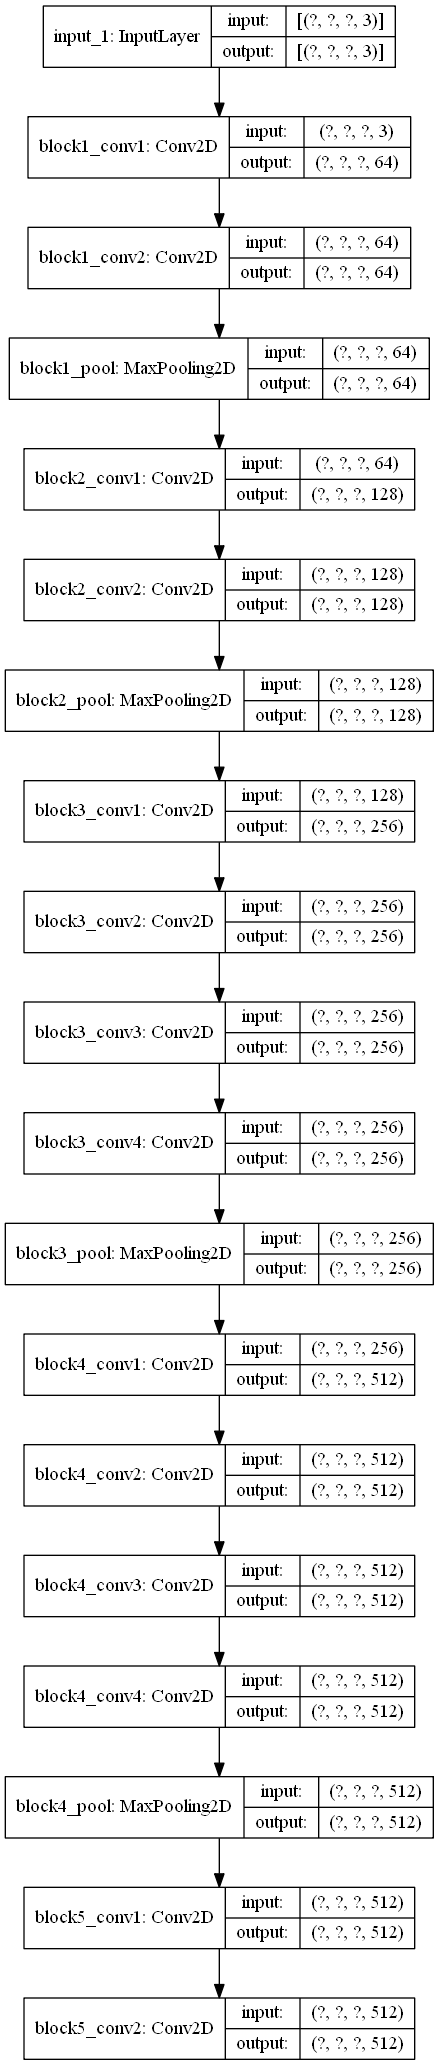
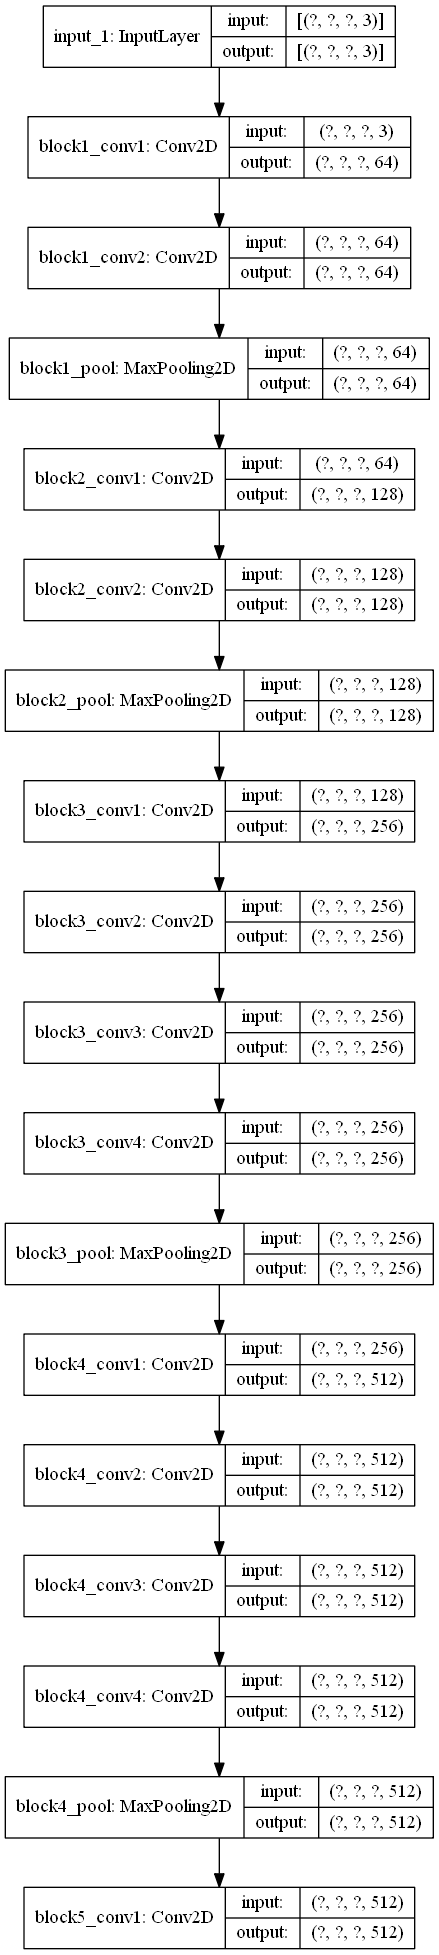
clean OK

Changed region(s): [[0.0, 0.0, 1.0, 0.9985], [0.0296, 0.7176, 0.0592, 0.7488], [0.0296, 0.2496, 0.0592, 0.2808]]

diff --git a/v1/functions.py b/v1/functions.py
@@ -1,20 +1,24 @@
 #
 # Copyright Yans Khoja
 #
-from PIL import Image
-# https://ascendances.wordpress.com/2016/08/03/redimensionner-des-images-avec-python-resize-image/
-import numpy as np
+#  Bibliothèque d'apprentissage profond & manipulation de tenseur
 import tensorflow as tf
-from tensorflow.keras import *
 import keras
 from keras import *
 from keras.applications.vgg19 import VGG19
 from keras.models import Model
 from keras.optimizers import SGD
-from functions import *
-import sys
+
+#  Bibliothèque classique
+import numpy as np
 from matplotlib import pyplot as plt
-from tensorflow.python.keras.preprocessing import image as kp_image
+
+# Receuil de fonctions utilisés dans le programme principale
+from functions import *
+
+#  Bibliothèque système
+import time
+import sys
 
 # Méthode générant une image en bruit de blanc
 def generative(chemin, saved, shown):
@@ -71,7 +75,7 @@ def load_img(path_to_img, new_shape):
   return img
 
 # Méthode permettant de créer le model convolutif basé sur un VGG19 et entrainé sur la base imagenet
-# avec en sortie les features maps définis en argument de la méthode
+# avec en sortie les features maps définis en argument de la méthode et nous empêcherons l'entraînement des paramètres.
 def create_model(style_layers, content_layers):
     vgg = tf.keras.applications.VGG19(include_top=False, weights='imagenet')
     vgg.trainable = False
@@ -79,39 +83,33 @@ def create_model(style_layers, content_layers):
     content_outputs = [vgg.get_layer(name).output for name in content_layers]
     outputs = style_outputs + content_outputs
     model = tf.keras.Model([vgg.input],outputs)
+    model.summary()
     tf.keras.utils.plot_model(model,"model_created.png", show_shapes=True)
     return model
 
-# Méthode permettant de récupèrer les features représentations du modèle pour l'image 
+# Méthode permettant de récupérer les features représentations du modèle pour l'image 
 def get_feature_representations(model, image, nbr_layers):
     # calculer les features de l'image
     content_outputs = model(image)
-    # Récuperer les feature representations content et style à partir de notre modèle à partir nos layers intermédiaires spécifiques
+    # Récupérer les feature representations content et style à partir de notre modèle à partir nos layers intermédiaires spécifiques
         # style_features -> Nous voulons récupérer les features representation des layers 
         # 'block1_conv1','block2_conv1','block3_conv1','block4_conv1','block5_conv1' pour 
         # l'image style
         # style_features -> Nous voulons récupérer les features representation des layers 
-        # 'block5_conv2' pour l'image content
+        # 'block4_conv2' pour l'image content
     style_features = [style_layer[0] for style_layer in content_outputs[:nbr_layers]]
     content_features = [content_layer[0] for content_layer in content_outputs[nbr_layers:]]
     return style_features, content_features
 
-# Méthode calculant la matrix de gram
+# Méthode calculant la matrice de gram
 def gram_matrix(input_tensor):
-    # print(tf.shape(input_tensor))
-    # gram = tf.linalg.einsum('.ik,.kj->lij', input_tensor, input_tensor)
-    # input_shape = tf.shape(input_tensor)
-    # num_locations = tf.cast(input_shape[1]*input_shape[2], tf.float32)
-    # return gram/(num_locations)
-
-    # Make the image channels
     channels = int(input_tensor.shape[-1])
     a = tf.reshape(input_tensor, [-1, channels])
     n = tf.shape(a)[0]
     gram = tf.matmul(a, a, transpose_a=True)
     return gram / tf.cast(n, tf.float32)
 
-#  Méthode permettant de récupèrer les features representations final de l'image
+#  Méthode permettant de récupérer les features representations final de l'image
 def get_outputs(style_layers, content_layers, custom_model, image, num_layers):
 
     num_content_layers , num_style_layers = num_layers
@@ -121,7 +119,7 @@ def get_outputs(style_layers, content_layers, custom_model, image, num_layers):
                                      image,
                                      num_style_layers)
 
-    # Convertion liste en tenseur
+    # Conversion liste en tenseur
     style_features = \
         [tf.convert_to_tensor(style_feature) for style_feature in style_features]
     content_features = \
@@ -131,7 +129,7 @@ def get_outputs(style_layers, content_layers, custom_model, image, num_layers):
     gram_style_features = \
         [gram_matrix(style_feature) for style_feature in style_features]
 
-    # Stokage dans un unique dictionnaire
+    # Stockage dans un unique dictionnaire
     content_dict = {content_name:value
                     for content_name, value
                     in zip(content_layers, content_features)}
@@ -144,10 +142,10 @@ def get_outputs(style_layers, content_layers, custom_model, image, num_layers):
 
     return outputs
 
-
+# Calculer la perte totale
 def style_content_loss(outputs,target,loss_weights, num_layers):
 
-    # Recuperer les  outputs de l'image d'initialisation
+    # Récupérer les  outputs de l'image d'initialisation
     style_outputs = dict(outputs['style'].items())
     content_outputs = dict(outputs['content'].items())
 
@@ -161,7 +159,6 @@ def style_content_loss(outputs,target,loss_weights, num_layers):
     style_weight, content_weight = loss_weights
     num_style_layers, num_content_layers = num_layers
 
-    # todo : Simplify this single instruction to multiple intruction (too long, possible error root cause)
     style_loss = 0
     for name in style_outputs.keys():
         sqrt = tf.square(style_outputs[name]-style_targets_outputs[name])
@@ -173,7 +170,6 @@ def style_content_loss(outputs,target,loss_weights, num_layers):
     
     style_loss *= style_weight / float(num_style_layers)
 
-    # todo : Simplify too
     content_loss = 0
     for name in content_outputs.keys():
         sqrt = tf.square(content_outputs[name]-content_targets_outputs[name])
@@ -192,10 +188,9 @@ def clip_0_1(image):
   return tf.clip_by_value(image, clip_value_min=0.0, clip_value_max=1.0)
 
 # Calculer les gradients par rapport à l'image d'entrée
-# @tf.function()
 def train( opt, image_init, style_layers,
                 content_layers, custom_model,
-                num_layers,target,loss_weights, total_variation_weight):
+                num_layers,target,loss_weights, total_variation_weight = 0):
 
    with tf.GradientTape() as tape:
        outputs = get_outputs( style_layers,
@@ -210,7 +205,6 @@ def train( opt, image_init, style_layers,
 
    opt.apply_gradients([(grad, image_init)])
    image_init.assign(clip_0_1(image_init))
-   # image_init.assign(tf.clip_by_value(image_init, min_vals, max_vals))
 
    return image_init
 

diff --git a/v1/main.py b/v1/main.py
@@ -1,27 +1,59 @@
 #
 # Copyright Yans Khoja
 #
-import numpy as np
-from matplotlib import pyplot as plt
+
+#  Bibliothèque d'apprentissage profond & manipulation de tenseur
 import tensorflow as tf
 import keras
 from keras import *
 from keras.applications.vgg19 import VGG19
 from keras.models import Model
 from keras.optimizers import SGD
+
+#  Bibliothèque classique
+import numpy as np
+from matplotlib import pyplot as plt
+
+# Recueil de fonctions utilisés dans le programme principale
 from functions import *
+
+#  Bibliothèque système
 import time
+import sys
 
 # Config GPU
 config = tf.compat.v1.ConfigProto()
 config.gpu_options.allow_growth=True
 sess =  tf.compat.v1.Session(config=config)
 
-# Activation de l'executing eagerly
-tf.executing_eagerly()
+# Chargement des images
+content_image = tf.keras.preprocessing.image.load_img('.\..\data\Labrador.jpg', color_mode='rgb')
+style_image = tf.keras.preprocessing.image.load_img('.\..\data\Kandinsky.jpg', color_mode='rgb')
+
+# Récupérer la taille des images d'origine
+size_originale_content = np.size(content_image,0) , np.size(content_image,1) 
+size_originale_style = np.size(style_image,0) , np.size(style_image,1) 
+
+# Convertir les images doivent être contenu dans un array (1,224,224,3)
+content_image = np.reshape(content_image,
+                            (1,np.size(content_image,0),
+                                np.size(content_image,1),
+                                np.size(content_image,2)))
+style_image = np.reshape(style_image,
+                          (1, np.size(style_image,0),
+                              np.size(style_image,1),
+                              np.size(style_image,2)))
+
+# Re-tailler les images
+content_image = tf.image.resize(content_image, [224,224], method='nearest')
+style_image = tf.image.resize(style_image, [224,224], method='nearest')
+
+# Conversion en float 32
+content_image = tf.image.convert_image_dtype(content_image, tf.float32)
+style_image = tf.image.convert_image_dtype(style_image, tf.float32)
 
 # Listes des "feature maps" à récupérer pour l'image content
-content_layers = ['block5_conv2']
+content_layers = ['block4_conv2']
 
 # Listes des "feature maps" à récupérer pour l'image content
 style_layers = ['block1_conv1',
@@ -36,37 +68,7 @@ num_content_layers = len(content_layers)
 num_style_layers = len(style_layers)
 num_layers = (num_content_layers,num_style_layers)
 
-# Chargement des images
-content_image = tf.keras.preprocessing.image.load_img('.\..\data\Labrador.jpg', grayscale=False, color_mode='rgb', target_size=None,
-    interpolation='nearest')
-style_image = tf.keras.preprocessing.image.load_img('.\..\data\Kandinsky.jpg', grayscale=False, color_mode='rgb', target_size=None,
-    interpolation='nearest')
-
-size_originale_content = np.size(content_image,0) , np.size(content_image,1) 
-size_originale_style = np.size(style_image,0) , np.size(style_image,1) 
-
-# Convertir les images doivent etre contenu dans un array (1,224,224,3) et en float 32
-content_image = np.reshape(content_image,
-                            (1,np.size(content_image,0),
-                                np.size(content_image,1),
-                                np.size(content_image,2)))
-
-style_image = np.reshape(style_image,
-                          (1, np.size(style_image,0),
-                              np.size(style_image,1),
-                              np.size(style_image,2)))
-
-content_image = tf.image.resize(content_image, [224,224], method='nearest', preserve_aspect_ratio=False,
-    antialias=False)
-style_image = tf.image.resize(style_image, [224,224], method='nearest', preserve_aspect_ratio=False,
-    antialias=False)
-
-
-
-content_image = tf.image.convert_image_dtype(content_image, tf.float32)
-style_image = tf.image.convert_image_dtype(style_image, tf.float32)
-
-# Creation du modele
+# Création du modèle
 custom_model = create_model(style_layers, content_layers)
 
 # Stockage des "feature representation" pour chacune des images
@@ -88,11 +90,11 @@ outputs_target['content_outputs'] = content_outputs_target
 init_image = tf.Variable(content_image)
 
 # Usage d'un adam optimizer
-opt = tf.optimizers.Adam(learning_rate=0.01)
+opt = tf.optimizers.Adam(learning_rate=0.02)
 
 #  Stockage des poids des loss content et loss style
-content_weight = 1e5
-style_weight= 1e-4
+content_weight = 1e4
+style_weight= 1e-2
 loss_weights = (style_weight, content_weight)
 
 #  Variable de la perte de variation totale
@@ -101,9 +103,6 @@ total_variation_weight = 30
 # ========= Debut du traitement ==========
 print('========= Debut du traitement ==========')
 start = time.time()
-
-# Utile pour l'affichage
-fig = plt.figure(figsize=(14, 10))
 
 epochs = 1
 steps_per_epoch = 100
@@ -114,16 +113,14 @@ for n in range(epochs):
     train( opt, init_image, style_layers, content_layers,
                 custom_model, num_layers, outputs_target, loss_weights, total_variation_weight)
     print(".",end='')
-
   print("Train step: {}".format(step))
-  imshow(plt, init_image)
-  plt.draw()
-  plt.pause(0.2)
-  fig.clear()
 
 end = time.time()
 print("Total time: {:.1f}".format(end-start))
 print('========= Fin du traitement ==========')
+
+# Utile pour l'affichage
+fig = plt.figure(figsize=(14, 10))
 
 # Analyse perte de variation totale sur les axes verticales et horizontales
 x_deltas_content_image, y_deltas_content_image = high_pass_x_y(content_image)
@@ -133,7 +130,6 @@ init_image = tf.image.resize(
     init_image, [size_originale_content[0],size_originale_content[1]] , method='nearest', preserve_aspect_ratio=False,
     antialias=False, name=None)
 
-fig = plt.figure(figsize=(14, 10))
 plt.subplot(3,3,1)
 imshow(plt, init_image,'Transfert')
 plt.subplot(3,3,2)
